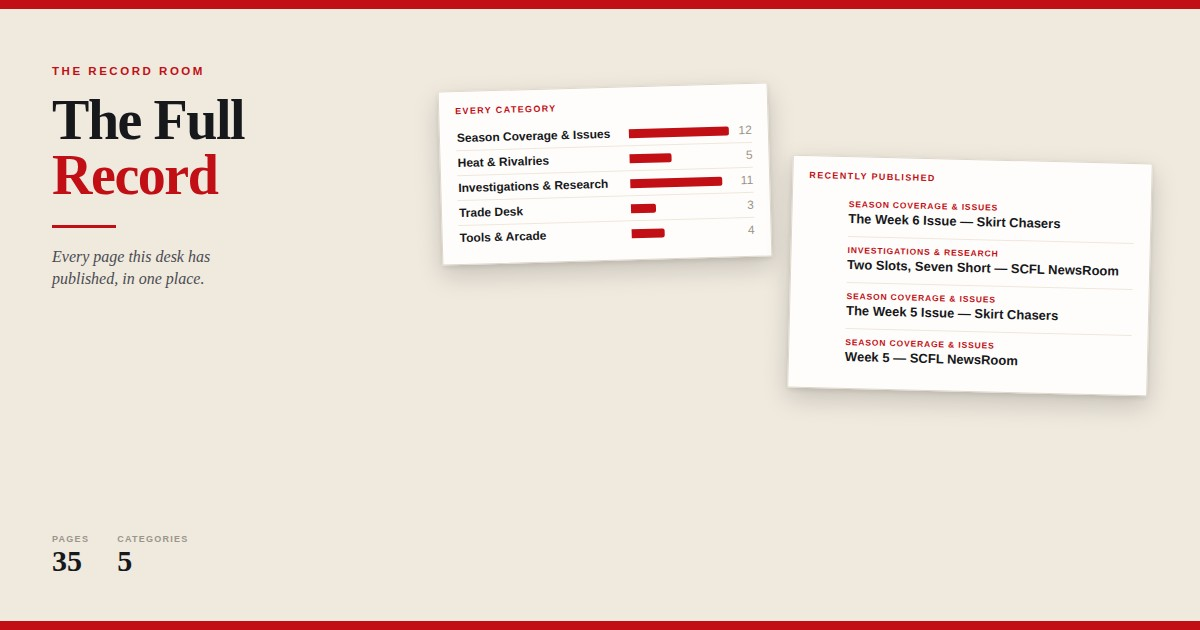
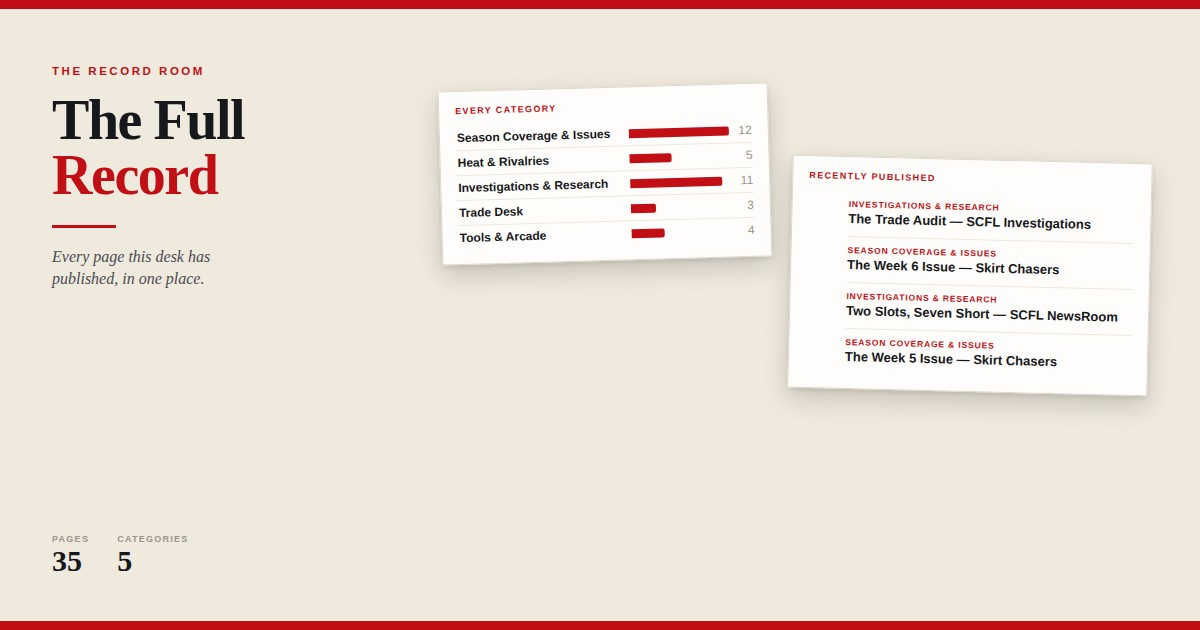
The Machines, not Keith; and say the window out loud
Two changes John asked for after reading it live.

The piece is about a franchise and a ledger, so it names the franchise.
Every reference to the manager by name is now The Machines, including
the league's own line -- "The Machines cheat" rather than the version
with his name in it -- and the persecution-complex paragraph, which now
describes what comes back off that side of the chat rather than the man.

And the window is stated where a reader meets it, not only in a sourcing
line at the bottom. The deck says 2021 to 2026 before anybody has
scrolled, and the methodology opens on a bordered note: every deal from
2021 to 2026 is in it, nothing before 2021 is, the itemised ledger and
the league WhatsApp both start there, and the floor is a sourcing limit
before it is an opinion -- a trade from a league that was not a dynasty
league yet says little about how this one is run now. With the standing
invitation: anybody still holding the official chat from before 2021
should send it, and the desk will go back further. The sourcing line
carries the same offer.

The notice box left-aligns its body now. Centred was right for the
one-line gag it was built for; a paragraph and a half of centred prose
is a ragged diamond nobody reads.

Claude-Session: https://claude.ai/code/session_01UFuyFKGPqfLKJjzL4J7sQk

Changed region(s): [[0.7092, 0.3921, 0.925, 0.5127], [0.7092, 0.3016, 0.925, 0.3619], [0.7092, 0.5429, 0.8942, 0.6032]]

diff --git a/scfl-trade-audit.html b/scfl-trade-audit.html
@@ -87,12 +87,17 @@ p.b b{color:var(--ink);}
   max-width:30em;margin:0 auto 12px;}
 .pc-by{font-family:var(--sans);font-size:10.5px;font-weight:800;letter-spacing:.2em;
   text-transform:uppercase;color:#a89f93;}
-/* victim support notice */
+/* a bordered notice. Centred was right for the one-line victim-support gag it
+   was built for; a scope note runs to a paragraph and a half, and centred
+   prose at that length is a ragged diamond nobody reads. The title stays
+   centred, the body does not. */
 .psa{border:2px solid var(--red);border-radius:14px;padding:16px 18px;margin:16px 0 6px;
   background:#fdf3f3;text-align:center;}
 .psa .t{font-family:var(--sans);font-size:12px;font-weight:900;letter-spacing:.13em;
   text-transform:uppercase;color:var(--red);line-height:1.35;margin-bottom:9px;}
 .psa p{font-size:15.5px;line-height:1.5;margin:0;color:var(--ink);}
+.psa p + p{margin-top:10px;}
+.psa.note{text-align:left;} .psa.note .t{text-align:center;}
 .psa .wa{display:inline-block;margin-top:11px;font-family:var(--sans);font-size:12.5px;
   font-weight:900;letter-spacing:.08em;text-transform:uppercase;color:#1a7f37;}
 
@@ -190,19 +195,19 @@ p.b b{color:var(--ink);}
 </head>
 <body>
 <div class="book"><div class="pages">
-<section class="page"><div class="photocover"><div class="pc-kick">SCFL NewsRoom &middot; SCFL NewsRoom</div><img class="pc-art" src="" alt="Not Guilty of Cheating. Guilty of Being Good."><div class="pc-bot"><div class="pc-mast">The Trade <span>Audit</span></div><div class="pc-rule"></div><div class="pc-h">Not Guilty of Cheating. Guilty of Being Good.</div><div class="pc-dek">For twenty-one years the league has whispered that The Machines rig it. We pulled every trade in the dynasty ledger and priced every asset at the season it moved in. Here is what it actually says.</div><div class="pc-by">The SCFL NewsRoom</div></div></div></section>
-<section class="page"><div class="page-inner"><div class="runhead">SCFL NewsRoom · Investigations · The Trade Audit</div><span class="flag">The Ledger · A Trade Audit</span><div class="dateline">WEST PALM BEACH, FLA.</div><h1 class="hl">Not Guilty of Cheating. Guilty of Being Good.</h1><p class="dek">For twenty-one years the league has whispered that The Machines rig it. We pulled every trade in the dynasty ledger and priced every asset at the season it moved in. Here is what it actually says.</p><p class="b"><span class="drop">T</span>here is a theory of the Skirt Chasers Fantasy League that has survived longer than most of the franchises in it. The theory is simple and it is repeated, in some form, every single autumn: Keith cheats. The Machines are the Evil Empire. He preys on the weak owners, he collects the rebuilders like toll booths, and the rest of the league is left to split the scraps he does not want. It is a good story. It has a villain, it has victims, and it explains — cleanly, comfortably — why the same team keeps ending up on top. This newsroom decided to do the one thing nobody in twenty-one years of group chat had bothered to do. We pulled the receipts.</p></div></section>
+<section class="page"><div class="photocover"><div class="pc-kick">SCFL NewsRoom &middot; SCFL NewsRoom</div><img class="pc-art" src="" alt="Not Guilty of Cheating. Guilty of Being Good."><div class="pc-bot"><div class="pc-mast">The Trade <span>Audit</span></div><div class="pc-rule"></div><div class="pc-h">Not Guilty of Cheating. Guilty of Being Good.</div><div class="pc-dek">For twenty-one years the league has whispered that The Machines rig it. We pulled every trade in the dynasty ledger — 2021 to 2026, the whole of it — and priced every asset at the season it moved in. Here is what it says.</div><div class="pc-by">The SCFL NewsRoom</div></div></div></section>
+<section class="page"><div class="page-inner"><div class="runhead">SCFL NewsRoom · Investigations · The Trade Audit</div><span class="flag">The Ledger · A Trade Audit</span><div class="dateline">WEST PALM BEACH, FLA.</div><h1 class="hl">Not Guilty of Cheating. Guilty of Being Good.</h1><p class="dek">For twenty-one years the league has whispered that The Machines rig it. We pulled every trade in the dynasty ledger — 2021 to 2026, the whole of it — and priced every asset at the season it moved in. Here is what it says.</p><p class="b"><span class="drop">T</span>here is a theory of the Skirt Chasers Fantasy League that has survived longer than most of the franchises in it. The theory is simple and it is repeated, in some form, every single autumn: The Machines cheat. The Machines are the Evil Empire. He preys on the weak owners, he collects the rebuilders like toll booths, and the rest of the league is left to split the scraps he does not want. It is a good story. It has a villain, it has victims, and it explains — cleanly, comfortably — why the same team keeps ending up on top. This newsroom decided to do the one thing nobody in twenty-one years of group chat had bothered to do. We pulled the receipts.</p></div></section>
 <section class="page"><div class="page-inner"><div class="runhead">SCFL NewsRoom · Investigations · The Trade Audit</div><p class="b">The record itself is not in dispute, and it is the reason the theory exists at all. The Machines are 215-63 across the tracked era — a .773 winning percentage in a league where the next best side to have gone the full twenty-one seasons, The Beaver Eaters, sits on .590. Twenty playoff appearances in twenty-one seasons. Four championships, nine runner-up finishes, an all-play record (3,198-944-28) that reads like a typo. You do not have to like it to respect it, and most of the league has chosen the first option. When a team is that good for that long, the human brain does not reach for "well-run." It reaches for "rigged." That instinct is the entire case for the prosecution, and it is worth taking seriously — so we did.</p></div></section>
-<section class="page"><div class="page-inner"><div class="runhead">SCFL NewsRoom · Investigations · The Trade Audit</div><p class="b">The charge, stated plainly, is collusion: that Keith wins because a handful of soft, compliant owners feed him their best players for pennies. If that were true, it would leave a fingerprint. Collusion is narrow by nature — you cannot conspire with the whole room. So we mapped every trade in the itemised ledger, 256 deals from 2021 to 2026, which is the dynasty era and all of it; there was no dynasty market before that and so there is nothing before that to read. Sixty-seven of those deals have The Machines on one side of the table.</p><p class="b">The first thing the ledger does is refuse to clear him. His most frequent partner is Lil Chops, with fifteen deals. Second is Wookie Leaks, with fourteen. Between them that is twenty-nine of his sixty-seven deals — about 43 per cent of everything he has done — and both of them come from the bottom of the all-time table. Wookie Leaks have the worst winning percentage of any side still in this league, 51-97, and have never made the playoffs in eleven seasons. Lil Chops are third-worst of the sixteen, at 40-56. If you wanted to draw the prosecution case as a chart, that is the chart. We are not going to pretend otherwise, because it is the first thing in the file.</p></div></section>
-<section class="page"><div class="page-inner"><div class="runhead">SCFL NewsRoom · Investigations · The Trade Audit</div><p class="b">The second thing the ledger does is refuse to convict him. Those sixty-seven deals are spread across fourteen different franchises — effectively everyone who has held a roster in the dynasty era. Twenty-seven of them were with sides that have made the playoffs ten times or more. Twenty-six were with sides that have won the thing. His joint-second most frequent partner is Powers of Pain, who own five championships — more than Keith does — and who have done eight deals with him. That is not a cabal of three. That is a man doing business with the entire building, including the parts of it that can beat him.</p></div></section>
+<section class="page"><div class="page-inner"><div class="runhead">SCFL NewsRoom · Investigations · The Trade Audit</div><p class="b">The charge, stated plainly, is collusion: that The Machines win because a handful of soft, compliant owners feed them their best players for pennies. If that were true, it would leave a fingerprint. Collusion is narrow by nature — you cannot conspire with the whole room. So we mapped every trade in the itemised ledger, 256 deals from 2021 to 2026, which is the dynasty era and all of it; there was no dynasty market before that and so there is nothing before that to read. Sixty-seven of those deals have The Machines on one side of the table.</p><p class="b">The first thing the ledger does is refuse to clear him. His most frequent partner is Lil Chops, with fifteen deals. Second is Wookie Leaks, with fourteen. Between them that is twenty-nine of his sixty-seven deals — about 43 per cent of everything he has done — and both of them come from the bottom of the all-time table. Wookie Leaks have the worst winning percentage of any side still in this league, 51-97, and have never made the playoffs in eleven seasons. Lil Chops are third-worst of the sixteen, at 40-56. If you wanted to draw the prosecution case as a chart, that is the chart. We are not going to pretend otherwise, because it is the first thing in the file.</p></div></section>
+<section class="page"><div class="page-inner"><div class="runhead">SCFL NewsRoom · Investigations · The Trade Audit</div><p class="b">The second thing the ledger does is refuse to convict him. Those sixty-seven deals are spread across fourteen different franchises — effectively everyone who has held a roster in the dynasty era. Twenty-seven of them were with sides that have made the playoffs ten times or more. Twenty-six were with sides that have won the thing. His joint-second most frequent partner is Powers of Pain, who own five championships — more than The Machines do — and who have done eight deals with them. That is not a cabal of three. That is a man doing business with the entire building, including the parts of it that can beat him.</p></div></section>
 <section class="page"><div class="page-inner"><div class="runhead">SCFL NewsRoom · Investigations · The Trade Audit</div><div class="ad"><figure><div class="scroll"><table><thead><tr><th class="lt">Partner</th><th>Deals</th><th></th><th>All-time</th><th>Playoffs</th><th>Titles</th></tr></thead><tbody><tr><th scope="row">Lil Chops</th><td class="num">15</td><td class="bar"><span class="" style="width:100%"></span></td><td class="num">40-56</td><td class="num">3</td><td class="num">&mdash;</td></tr><tr><th scope="row">Wookie Leaks</th><td class="num">14</td><td class="bar"><span class="" style="width:93%"></span></td><td class="num">51-97</td><td class="num">0</td><td class="num">&mdash;</td></tr><tr><th scope="row">Heavy Hitters</th><td class="num">8</td><td class="bar"><span class="" style="width:53%"></span></td><td class="num">127-151</td><td class="num">10</td><td class="num">1</td></tr><tr><th scope="row">Powers of Pain</th><td class="num">8</td><td class="bar"><span class="" style="width:53%"></span></td><td class="num">144-134</td><td class="num">10</td><td class="num">5</td></tr><tr><th scope="row">The Beaver Eaters</th><td class="num">4</td><td class="bar"><span class="" style="width:27%"></span></td><td class="num">164-114</td><td class="num">15</td><td class="num">&mdash;</td></tr><tr><th scope="row">Pork Chop Express</th><td class="num">4</td><td class="bar"><span class="" style="width:27%"></span></td><td class="num">61-61</td><td class="num">5</td><td class="num">&mdash;</td></tr><tr><th scope="row">Killer Klowns</th><td class="num">3</td><td class="bar"><span class="" style="width:20%"></span></td><td class="num">94-145</td><td class="num">1</td><td class="num">1</td></tr><tr><th scope="row">Guido Haters</th><td class="num">2</td><td class="bar"><span class="" style="width:13%"></span></td><td class="num">119-120</td><td class="num">12</td><td class="num">1</td></tr><tr><th scope="row">Smoke Dragons</th><td class="num">2</td><td class="bar"><span class="" style="width:13%"></span></td><td class="num">138-140</td><td class="num">11</td><td class="num">&mdash;</td></tr><tr><th scope="row">Big Blue</th><td class="num">2</td><td class="bar"><span class="" style="width:13%"></span></td><td class="num">163-115</td><td class="num">13</td><td class="num">4</td></tr><tr><th scope="row">Still The Cream</th><td class="num">2</td><td class="bar"><span class="" style="width:13%"></span></td><td class="num">122-156</td><td class="num">9</td><td class="num">&mdash;</td></tr><tr><th scope="row">New World Order</th><td class="num">2</td><td class="bar"><span class="" style="width:13%"></span></td><td class="num">161-117</td><td class="num">17</td><td class="num">1</td></tr><tr><th scope="row">Hairy Gumbas</th><td class="num">1</td><td class="bar"><span class="" style="width:7%"></span></td><td class="num">120-158</td><td class="num">8</td><td class="num">&mdash;</td></tr><tr><th scope="row">Master Jet-I</th><td class="num">1</td><td class="bar"><span class="" style="width:7%"></span></td><td class="num">84-103</td><td class="num">5</td><td class="num">1</td></tr></tbody></table></div><figcaption>Every franchise The Machines have traded with in the dynasty ledger, 2021&ndash;2026. Record, playoff appearances and titles are all-time, from League Legacy. Two of the sixteen do not appear at all.</figcaption></figure></div></div></section>
-<section class="page"><div class="page-inner"><div class="runhead">SCFL NewsRoom · Investigations · The Trade Audit</div><p class="b">Both things are true at once, and the theory cannot hold both. Collusion needs a closed room. What the ledger shows is an open one with two doors that get used more than the others — and in a dynasty league, those two doors have a name. The rebuilders are not the contender's victims; they are the contender's trading partners by design. A team going nowhere in November has one asset a title team wants and one thing it needs, and the title team is the only reliable buyer in the building. The sides who trade with Keith most are the sides with the most reason to.</p><p class="b">And the direction of travel is the opposite of the one the story tells. Across those sixty-seven deals The Machines took in fifty-two players and gave up seventy-four. They took in fifty-four picks and gave up forty-three. By the count, the Evil Empire is a net seller of players and a net buyer of draft capital — which is not what hoovering up the league's veterans looks like. It is what a rebuild looks like, run every year, by a team that keeps winning while it runs it.</p></div></section>
+<section class="page"><div class="page-inner"><div class="runhead">SCFL NewsRoom · Investigations · The Trade Audit</div><p class="b">Both things are true at once, and the theory cannot hold both. Collusion needs a closed room. What the ledger shows is an open one with two doors that get used more than the others — and in a dynasty league, those two doors have a name. The rebuilders are not the contender's victims; they are the contender's trading partners by design. A team going nowhere in November has one asset a title team wants and one thing it needs, and the title team is the only reliable buyer in the building. The sides who trade with The Machines most are the sides with the most reason to.</p><p class="b">And the direction of travel is the opposite of the one the story tells. Across those sixty-seven deals The Machines took in fifty-two players and gave up seventy-four. They took in fifty-four picks and gave up forty-three. By the count, the Evil Empire is a net seller of players and a net buyer of draft capital — which is not what hoovering up the league's veterans looks like. It is what a rebuild looks like, run every year, by a team that keeps winning while it runs it.</p></div></section>
 <section class="page"><div class="page-inner"><div class="runhead">SCFL NewsRoom · Investigations · The Trade Audit</div><p class="b">He is not even the busiest man in the market. Pork Chop Express appear in seventy-two deals in this ledger; The Machines appear in sixty-seven. And the rate never moves. Thirteen trades in 2021, 2022, 2023, 2024 and 2025: five straight seasons on the same number, with a different set of partners every time. Whatever he is doing, he is doing it in public, on a schedule, with everyone.</p><p class="b">Does he win the deals? More than he loses, and by less than the theory needs. Priced at the season each trade was made in — August values of that year, picks on the same dollar board the Trade Court grades on, no hindsight anywhere — The Machines are 16-7 across the sixty-six two-team deals in the ledger. But the number that says more is the third one: forty-three of those sixty-six finish inside twelve dollars either way. 65 per cent of everything he has done is, by the board, a fair trade. His median deal is worth $3 to him. That is the shape of a man making a great many ordinary trades, not a man running a protection racket.</p></div></section>
 <section class="page"><div class="page-inner"><div class="runhead">SCFL NewsRoom · Investigations · The Trade Audit</div><div class="ad"><figure><div class="scroll"><table><thead><tr><th class="lt">Differential to The Machines</th><th>Deals</th><th></th></tr></thead><tbody><tr><th scope="row">worse than &minus;$100</th><td class="num">0</td><td class="bar"></td></tr><tr><th scope="row">&minus;$100 to &minus;$50</th><td class="num">1</td><td class="bar"><span class="lo" style="width:2%"></span></td></tr><tr><th scope="row">&minus;$50 to &minus;$12</th><td class="num">6</td><td class="bar"><span class="lo" style="width:14%"></span></td></tr><tr><th scope="row">level (within $12)</th><td class="num">43</td><td class="bar"><span class="" style="width:100%;background:#d8b45a"></span></td></tr><tr><th scope="row">$12 to $50</th><td class="num">16</td><td class="bar"><span class="" style="width:37%"></span></td></tr><tr><th scope="row">$50 to $100</th><td class="num">0</td><td class="bar"></td></tr><tr><th scope="row">better than $100</th><td class="num">0</td><td class="bar"></td></tr></tbody></table></div><figcaption>All 66 two-team deals, priced at the season each was made in. 43 of them finish inside twelve dollars either way &mdash; the threshold the Trade Court uses to call a deal a win. Gold is level, red is the Machines ahead, blue behind.</figcaption></figure></div><p class="b">And the misses are not abstract. Some of them walked back through the door. JuJu Smith-Schuster went to Lil Chops in 2021 and was bought back from Heavy Hitters in 2024, three years later. Trey McBride went to Killer Klowns in 2023 and was bought back from Lil Chops in 2025, two years later. Five players in this ledger have made that round trip. It is not the paperwork of a man with the game in a fix. It is the paperwork of a very good manager who is still, occasionally, human — which is the most exculpatory evidence we found.</p></div></section>
-<section class="page"><div class="page-inner"><div class="runhead">SCFL NewsRoom · Investigations · The Trade Audit</div><p class="b">So why does the accusation never die? Because it does useful work for the fifteen other guys. "Keith cheats" is a more bearable explanation than "Keith is better than me at the one thing we all show up to do." The persecution complex Keith wears — everyone's teaming up on me, they gang up because I'm the best — is not entirely paranoia; the chat does organize against him, does root against him, does treat a deal that helps The Machines as a threat to the republic. But that is a tax the league levies on excellence, not evidence of a crime. They gang up on him because he keeps winning. He keeps winning because he is good.</p><p class="b">This newsroom has now read every deal in the dynasty ledger, priced every asset at the season it moved in, and counted every partner. There is no cabal. There is a concentration, and an explanation for the concentration that the concentration itself supports. There is a market, open every summer, and he does not own it: Pork Chop Express appear in more of its deals than he does, and he does not clear it either, because most of what he does in it comes out level. And there is a room that has decided, for twenty-one years, that whatever he is doing instead must be against the rules.</p></div></section>
+<section class="page"><div class="page-inner"><div class="runhead">SCFL NewsRoom · Investigations · The Trade Audit</div><p class="b">So why does the accusation never die? Because it does useful work for the fifteen other teams. "The Machines cheat" is a more bearable explanation than "The Machines are better than me at the one thing we all show up to do." The persecution complex that comes back off that side of the chat — everyone's teaming up on me, they gang up because I'm the best — is not entirely paranoia; the chat does organize against him, does root against him, does treat a deal that helps The Machines as a threat to the republic. But that is a tax the league levies on excellence, not evidence of a crime. They gang up on him because he keeps winning. He keeps winning because he is good.</p><p class="b">This newsroom has now read every deal in the dynasty ledger, priced every asset at the season it moved in, and counted every partner. There is no cabal. There is a concentration, and an explanation for the concentration that the concentration itself supports. There is a market, open every summer, and he does not own it: Pork Chop Express appear in more of its deals than he does, and he does not clear it either, because most of what he does in it comes out level. And there is a room that has decided, for twenty-one years, that whatever he is doing instead must be against the rules.</p></div></section>
 <section class="page"><div class="page-inner"><div class="runhead">SCFL NewsRoom · Investigations · The Trade Audit</div><p class="b">So the verdict of the ledger is not close, and it is not the one the league wants either. On the charge of cheating: not guilty. On the charge of collusion: not guilty. On the charge of running a market that pays him and nobody else: not guilty — forty-three of his sixty-six priced deals come out level, and he is a net seller of players in the ones that do not. He does not have the most championships either; Powers of Pain have five to his four. What he is guilty of is narrower than the theory and worse for everybody else: the best record anybody has put together here, .773 against .590 for the next side to go the distance, and twenty playoff appearances in twenty-one seasons, three more than anyone else has managed. He is beaten in his own trade ledger seven times out of sixty-six and he finishes above you anyway. Some empires are built in the dark. This one was built in the group chat, in broad daylight, one ordinary deal at a time, while everybody watched and nobody could stop it.</p></div></section>
-<section class="page"><div class="page-inner"><div class="runhead">SCFL NewsRoom · Investigations · The Trade Audit</div><div class="sect">How This Was Counted</div><p class="b">Every figure in this piece is computed from three files in the newsroom repository, and the piece is regenerated from them rather than typed. The first version of it was typed, and almost every count in the paragraph carrying the defence was wrong.</p><p class="b"><b>The ledger.</b> The itemised Obvibase export: 256 deals from 2021 to 2026, with multi-team legs consolidated and pass-through assets netted out, so a middleman is credited only with what he kept. There is nothing before 2021; there was no dynasty market, and the league WhatsApp — created in 2016 — holds nothing but three setup notices until 2021 either. Both records start in the same place, which is why this is the dynasty-era ledger and not the twenty-one-year one.</p><p class="b"><b>Players</b> are priced from the DynastyProcess superflex board, taken from the August snapshot of the season the trade was made in. Not today&rsquo;s. A player who became a star in 2024 is priced in a 2021 trade at what he was worth in 2021, because the question is whether the deal was fair when it was made, not whether it aged well.</p></div></section>
-<section class="page"><div class="page-inner"><div class="runhead">SCFL NewsRoom · Investigations · The Trade Audit</div><p class="b"><b>Picks</b> are priced from the league&rsquo;s own pick curve, calibrated against 235 real SCFL trades. A pick with a known slot is worth what the curve says. A future pick has no slot yet, so it is priced at the average of its round and discounted for every year of waiting.</p></div></section>
+<section class="page"><div class="page-inner"><div class="runhead">SCFL NewsRoom · Investigations · The Trade Audit</div><div class="sect">How This Was Counted</div><div class="psa note"><div class="t">The window: 2021 to 2026</div><p>This audit covers the dynasty era and only the dynasty era. Every deal from 2021 to 2026 is in it; nothing before 2021 is, because nothing before 2021 exists to read. The itemised ledger starts there, and the league WhatsApp — created in 2016 — holds three setup notices and then nothing until 2021 as well. Two records, the same floor.</p><p>That floor is also a judgement: a trade from ten or fifteen years ago, in a league that was not a dynasty league yet, does not tell you much about how this one is run now. But the floor is a sourcing limit before it is an opinion. <b>If anybody still has the official chat from before 2021, send it and this desk will go back further.</b></p></div><p class="b">Every figure in this piece is computed from three files in the newsroom repository, and the piece is regenerated from them rather than typed. The first version of it was typed, and almost every count in the paragraph carrying the defence was wrong.</p></div></section>
+<section class="page"><div class="page-inner"><div class="runhead">SCFL NewsRoom · Investigations · The Trade Audit</div><p class="b"><b>The ledger.</b> The itemised Obvibase export: 256 deals from 2021 to 2026, with multi-team legs consolidated and pass-through assets netted out, so a middleman is credited only with what he kept. There is nothing before 2021; there was no dynasty market, and the league WhatsApp — created in 2016 — holds nothing but three setup notices until 2021 either. Both records start in the same place, which is why this is the dynasty-era ledger and not the twenty-one-year one.</p><p class="b"><b>Players</b> are priced from the DynastyProcess superflex board, taken from the August snapshot of the season the trade was made in. Not today&rsquo;s. A player who became a star in 2024 is priced in a 2021 trade at what he was worth in 2021, because the question is whether the deal was fair when it was made, not whether it aged well.</p><p class="b"><b>Picks</b> are priced from the league&rsquo;s own pick curve, calibrated against 235 real SCFL trades. A pick with a known slot is worth what the curve says. A future pick has no slot yet, so it is priced at the average of its round and discounted for every year of waiting.</p></div></section>
 <section class="page"><div class="page-inner"><div class="runhead">SCFL NewsRoom · Investigations · The Trade Audit</div><div class="ad"><figure><div class="scroll"><table><thead><tr><th class="lt">Pick</th><th>2026</th><th>2027</th><th>2028</th><th>2029</th></tr></thead><tbody><tr><th scope="row">1</th><td class="num">100.0</td><td class="num">88.0</td><td class="num">77.4</td><td class="num">68.1</td></tr><tr><th scope="row">2</th><td class="num">86.0</td><td class="num">75.7</td><td class="num">66.6</td><td class="num">58.6</td></tr><tr><th scope="row">3</th><td class="num">76.0</td><td class="num">66.9</td><td class="num">58.9</td><td class="num">51.8</td></tr><tr><th scope="row">4</th><td class="num">56.0</td><td class="num">49.3</td><td class="num">43.4</td><td class="num">38.2</td></tr><tr><th scope="row">5</th><td class="num">50.0</td><td class="num">44.0</td><td class="num">38.7</td><td class="num">34.1</td></tr><tr><th scope="row">6</th><td class="num">46.0</td><td class="num">40.5</td><td class="num">35.6</td><td class="num">31.3</td></tr><tr><th scope="row">7</th><td class="num">43.0</td><td class="num">37.8</td><td class="num">33.3</td><td class="num">29.3</td></tr><tr><th scope="row">8</th><td class="num">41.0</td><td class="num">36.1</td><td class="num">31.8</td><td class="num">27.9</td></tr><tr><th scope="row">9</th><td class="num">39.0</td><td class="num">34.3</td><td class="num">30.2</td><td class="num">26.6</td></tr><tr><th scope="row">10</th><td class="num">38.0</td><td class="num">33.4</td><td class="num">29.4</td><td class="num">25.9</td></tr><tr><th scope="row">11</th><td class="num">33.0</td><td class="num">29.0</td><td class="num">25.6</td><td class="num">22.5</td></tr><tr><th scope="row">12</th><td class="num">30.0</td><td class="num">26.4</td><td class="num">23.2</td><td class="num">20.4</td></tr><tr><th scope="row">13</th><td class="num">27.0</td><td class="num">23.8</td><td class="num">20.9</td><td class="num">18.4</td></tr><tr><th scope="row">14</th><td class="num">24.0</td><td class="num">21.1</td><td class="num">18.6</td><td class="num">16.4</td></tr><tr><th scope="row">15</th><td class="num">21.0</td><td class="num">18.5</td><td class="num">16.3</td><td class="num">14.3</td></tr><tr><th scope="row">16</th><td class="num">19.0</td><td class="num">16.7</td><td class="num">14.7</td><td class="num">12.9</td></tr><tr><th scope="row" class="dim">a 1st, slot unknown</th><td class="num dim">45.6</td><td class="num dim">40.1</td><td class="num dim">35.3</td><td class="num dim">31.0</td></tr><tr><th scope="row" class="dim">a 2nd, slot unknown</th><td class="num dim">10.0</td><td class="num dim">8.8</td><td class="num dim">7.7</td><td class="num dim">6.8</td></tr></tbody></table></div><figcaption>The pick board, in the same dollars as the players: the 1.01 is $100 and so is a player valued at 100. A pick loses 12 per cent a year for every year you have to wait for it. A traded future pick has no known slot, so it is priced at the average of its round.</figcaption></figure></div></div></section>
 <section class="page"><div class="page-inner"><div class="runhead">SCFL NewsRoom · Investigations · The Trade Audit</div><p class="b"><b>The two boards had to be reconciled, and that is where this audit nearly went wrong.</b> The pick curve puts the 1.01 at 1,000. The player board puts the 1.01 at 100 and the best player in the league at 127. They are the same scale ten units apart, and the first run of this audit added them together raw &mdash; which valued a pick three drafts away at nine times a top-five tight end and inflated every pick in the ledger about tenfold. Dividing the curve by ten puts the 1.01 on $100 and the average first-round pick on $45.60, which the league&rsquo;s Trade Court, calibrated separately, independently puts at $48. Two boards built apart agreeing inside five per cent is the check that this is a reconciliation and not a convenience.</p><p class="b"><b>A win</b> is a net above $12 on that board, which is the Trade Court&rsquo;s own threshold, and anything inside it is called level. <b>What is left out:</b> five three-team deals, whose receipts do not say which side each asset came from, and seven assets league-wide &mdash; team defences, mostly &mdash; that carry no price and count as zero.</p></div></section>
 <section class="page"><div class="page-inner"><div class="runhead">SCFL NewsRoom · Investigations · The Trade Audit</div><p class="b"><b>What is deliberately not here.</b> No league ranking for who trades best. The order moves by several places depending on nothing more than what an unknown future second is assumed to be worth, and a table an assumption can reshuffle is not a finding. No claim about how a trade aged, either: this board does not know, and neither did anybody at the table.</p><div class="devnote">Sourcing: the itemised Obvibase ledger (256 deals, 2021–2026), with multi-team legs consolidated and relay assets netted out; the League Legacy all-time table for records, playoff appearances and titles. Pre-2021 trades are not in the ledger and are not claimed here. Trade values are scripts/build_trade_values.py, which prices every asset at the August of the season the trade was made in — players off that year’s dp-values snapshot, picks off the chart calibrated to real SCFL trades — so nothing here is graded with hindsight; the method is docs/TRADE-VALUE-MODEL.md. A win is a net above $12, the Trade Court’s own threshold. Five three-team deals are left out of the win-loss record, because their receipts do not say which side each asset came from, and seven assets league-wide — team defences, mostly — carry no price and count as zero.</div><div class="sign">&mdash; SCFL Investigations</div></div></section>

diff --git a/scripts/build_trade_audit.py b/scripts/build_trade_audit.py
@@ -297,7 +297,8 @@ def prose(F):
     P.append(
         'There is a theory of the Skirt Chasers Fantasy League that has survived longer '
         'than most of the franchises in it. The theory is simple and it is repeated, in '
-        'some form, every single autumn: Keith cheats. The Machines are the Evil Empire. '
+        'some form, every single autumn: The Machines cheat. The Machines are the Evil '
+        'Empire. '
         'He preys on the weak owners, he collects the rebuilders like toll booths, and '
         'the rest of the league is left to split the scraps he does not want. It is a '
         'good story. It has a villain, it has victims, and it explains — cleanly, '
@@ -321,8 +322,9 @@ def prose(F):
         f'taking seriously — so we did.')
 
     P.append(
-        f'The charge, stated plainly, is collusion: that Keith wins because a handful of '
-        f'soft, compliant owners feed him their best players for pennies. If that were '
+        f'The charge, stated plainly, is collusion: that The Machines win because a handful '
+        f'of '
+        f'soft, compliant owners feed them their best players for pennies. If that were '
         f'true, it would leave a fingerprint. Collusion is narrow by nature — you cannot '
         f'conspire with the whole room. So we mapped every trade in the itemised ledger, '
         f'{word(F["league_deals"])} deals from {y0} to {y1}, which is the dynasty era and '
@@ -352,7 +354,7 @@ def prose(F):
         f'the playoffs ten times or more. {word(F["with_champions"]).capitalize()} were '
         f'with sides that have won the thing. His joint-second most frequent partner is '
         f'{name(best)}, who own {word(rec[best]["titles"])} championships — more than '
-        f'Keith does — and who have done {word(best_n)} deals with him. That is not a '
+        f'The Machines do — and who have done {word(best_n)} deals with them. That is not a '
         f'cabal of three. That is a man doing business with the entire building, including '
         f'the parts of it that can beat him.')
 
@@ -363,7 +365,8 @@ def prose(F):
         'rebuilders are not the contender\'s victims; they are the contender\'s trading '
         'partners by design. A team going nowhere in November has one asset a title team '
         'wants and one thing it needs, and the title team is the only reliable buyer in '
-        'the building. The sides who trade with Keith most are the sides with the most '
+        'the building. The sides who trade with The Machines most are the sides with the '
+        'most '
         'reason to.')
 
     P.append(
@@ -430,9 +433,10 @@ def prose(F):
 
     P.append(
         f'So why does the accusation never die? Because it does useful work for the '
-        f'{word(F["others"])} other guys. "Keith cheats" is a more bearable '
-        f'explanation than "Keith is better than me at the one thing we all show up to '
-        f'do." The persecution complex Keith wears — everyone\'s teaming up on me, they '
+        f'{word(F["others"])} other teams. "The Machines cheat" is a more bearable '
+        f'explanation than "The Machines are better than me at the one thing we all show '
+        f'up to do." The persecution complex that comes back off that side of the chat '
+        f'— everyone\'s teaming up on me, they '
         f'gang up because I\'m the best — is not entirely paranoia; the chat does organize '
         f'against him, does root against him, does treat a deal that helps The Machines as '
         f'a threat to the republic. But that is a tax the league levies on excellence, not '
@@ -538,6 +542,10 @@ def build():
     old = next((x for x in inv if x.get('id') == ARTICLE_ID), None)
     if old is None:
         raise SystemExit(f'{ARTICLE_ID} not in investigations.json')
+    old['subhead'] = (f'For twenty-one years the league has whispered that The Machines '
+                      f'rig it. We pulled every trade in the dynasty ledger — '
+                      f'{F["span"][0]} to {F["span"][1]}, the whole of it — and priced '
+                      f'every asset at the season it moved in. Here is what it says.')
     old['paragraphs'] = P
     old['blocks'] = blocks(F, P)
     tmp = path + '.tmp'
@@ -648,6 +656,19 @@ def method(F):
     V, sp = F['val'], F['span']
     return [
         ('sect', '<div class="sect">How This Was Counted</div>'),
+        ('body', f'<div class="psa note"><div class="t">The window: {sp[0]} to {sp[1]}</div>'
+                 f'<p>This audit covers the dynasty era and only the dynasty era. Every '
+                 f'deal from {sp[0]} to {sp[1]} is in it; nothing before {sp[0]} is, '
+                 f'because nothing before {sp[0]} exists to read. The itemised ledger '
+                 f'starts there, and the league WhatsApp — created in 2016 — holds three '
+                 f'setup notices and then nothing until {sp[0]} as well. Two records, the '
+                 f'same floor.</p>'
+                 f'<p>That floor is also a judgement: a trade from ten or fifteen years '
+                 f'ago, in a league that was not a dynasty league yet, does not tell you '
+                 f'much about how this one is run now. But the floor is a sourcing limit '
+                 f'before it is an opinion. <b>If anybody still has the official chat from '
+                 f'before {sp[0]}, send it and this desk will go back further.</b></p>'
+                 f'</div>'),
         ('body', '<p class="b">Every figure in this piece is computed from three files in '
                  'the newsroom repository, and the piece is regenerated from them rather '
                  'than typed. The first version of it was typed, and almost every count in '

diff --git a/scripts/build_story_page.py b/scripts/build_story_page.py
@@ -116,12 +116,17 @@ EXTRA_CSS = """
   max-width:30em;margin:0 auto 12px;}
 .pc-by{font-family:var(--sans);font-size:10.5px;font-weight:800;letter-spacing:.2em;
   text-transform:uppercase;color:#a89f93;}
-/* victim support notice */
+/* a bordered notice. Centred was right for the one-line victim-support gag it
+   was built for; a scope note runs to a paragraph and a half, and centred
+   prose at that length is a ragged diamond nobody reads. The title stays
+   centred, the body does not. */
 .psa{border:2px solid var(--red);border-radius:14px;padding:16px 18px;margin:16px 0 6px;
   background:#fdf3f3;text-align:center;}
 .psa .t{font-family:var(--sans);font-size:12px;font-weight:900;letter-spacing:.13em;
   text-transform:uppercase;color:var(--red);line-height:1.35;margin-bottom:9px;}
 .psa p{font-size:15.5px;line-height:1.5;margin:0;color:var(--ink);}
+.psa p + p{margin-top:10px;}
+.psa.note{text-align:left;} .psa.note .t{text-align:center;}
 .psa .wa{display:inline-block;margin-top:11px;font-family:var(--sans);font-size:12.5px;
   font-weight:900;letter-spacing:.08em;text-transform:uppercase;color:#1a7f37;}
 """
